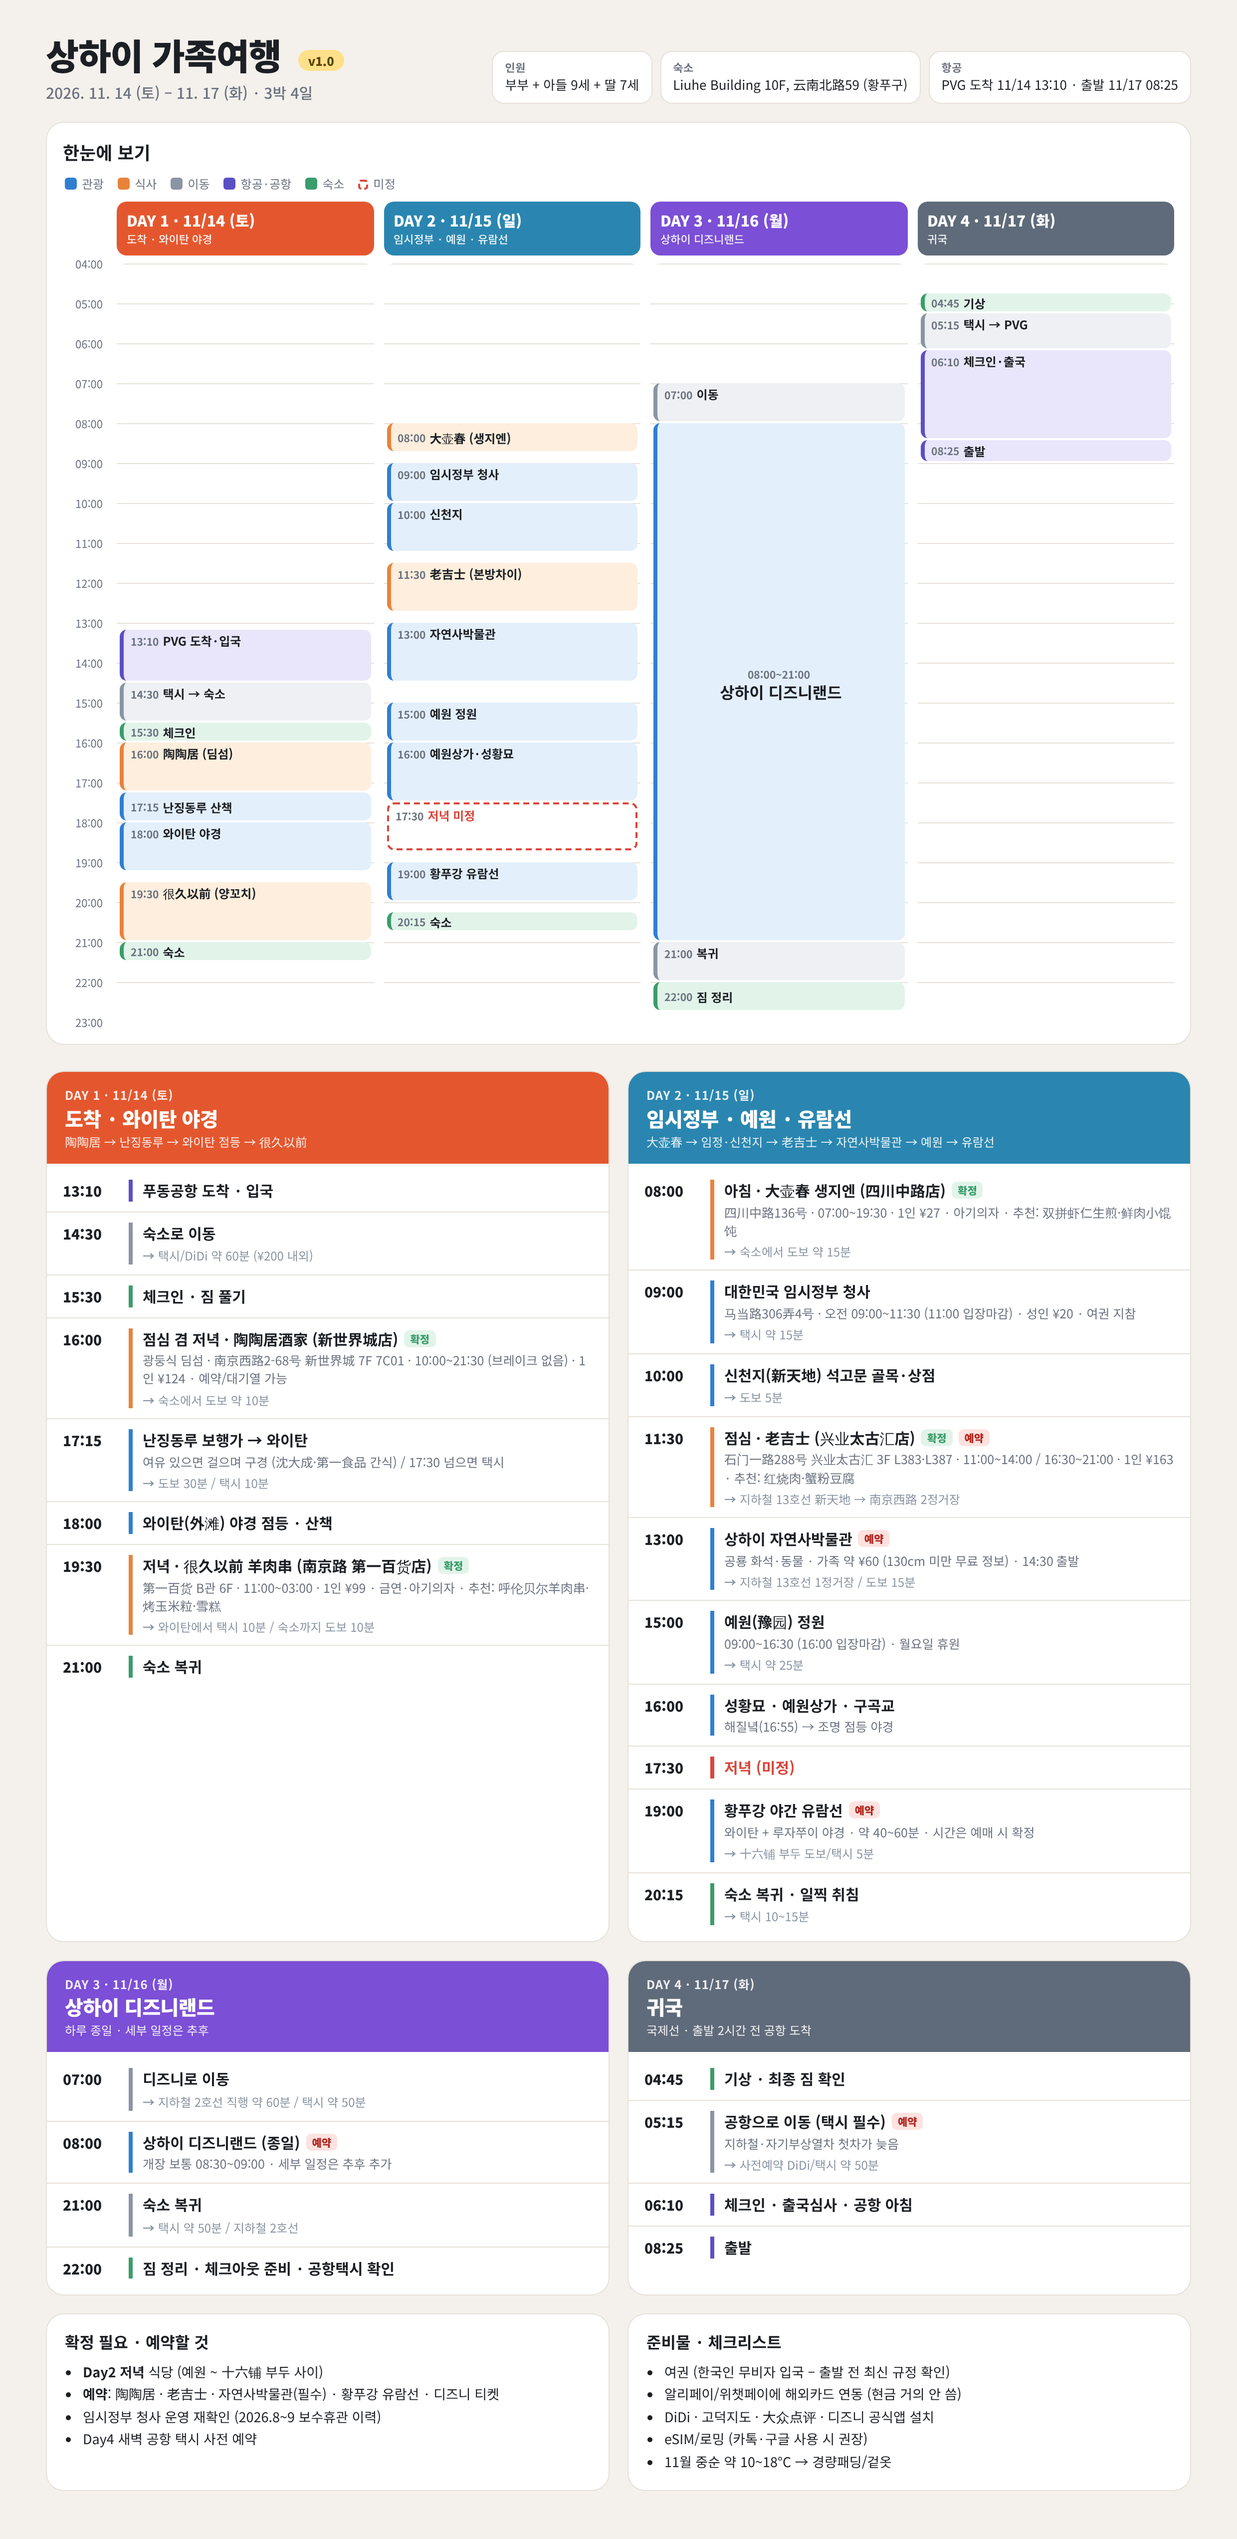
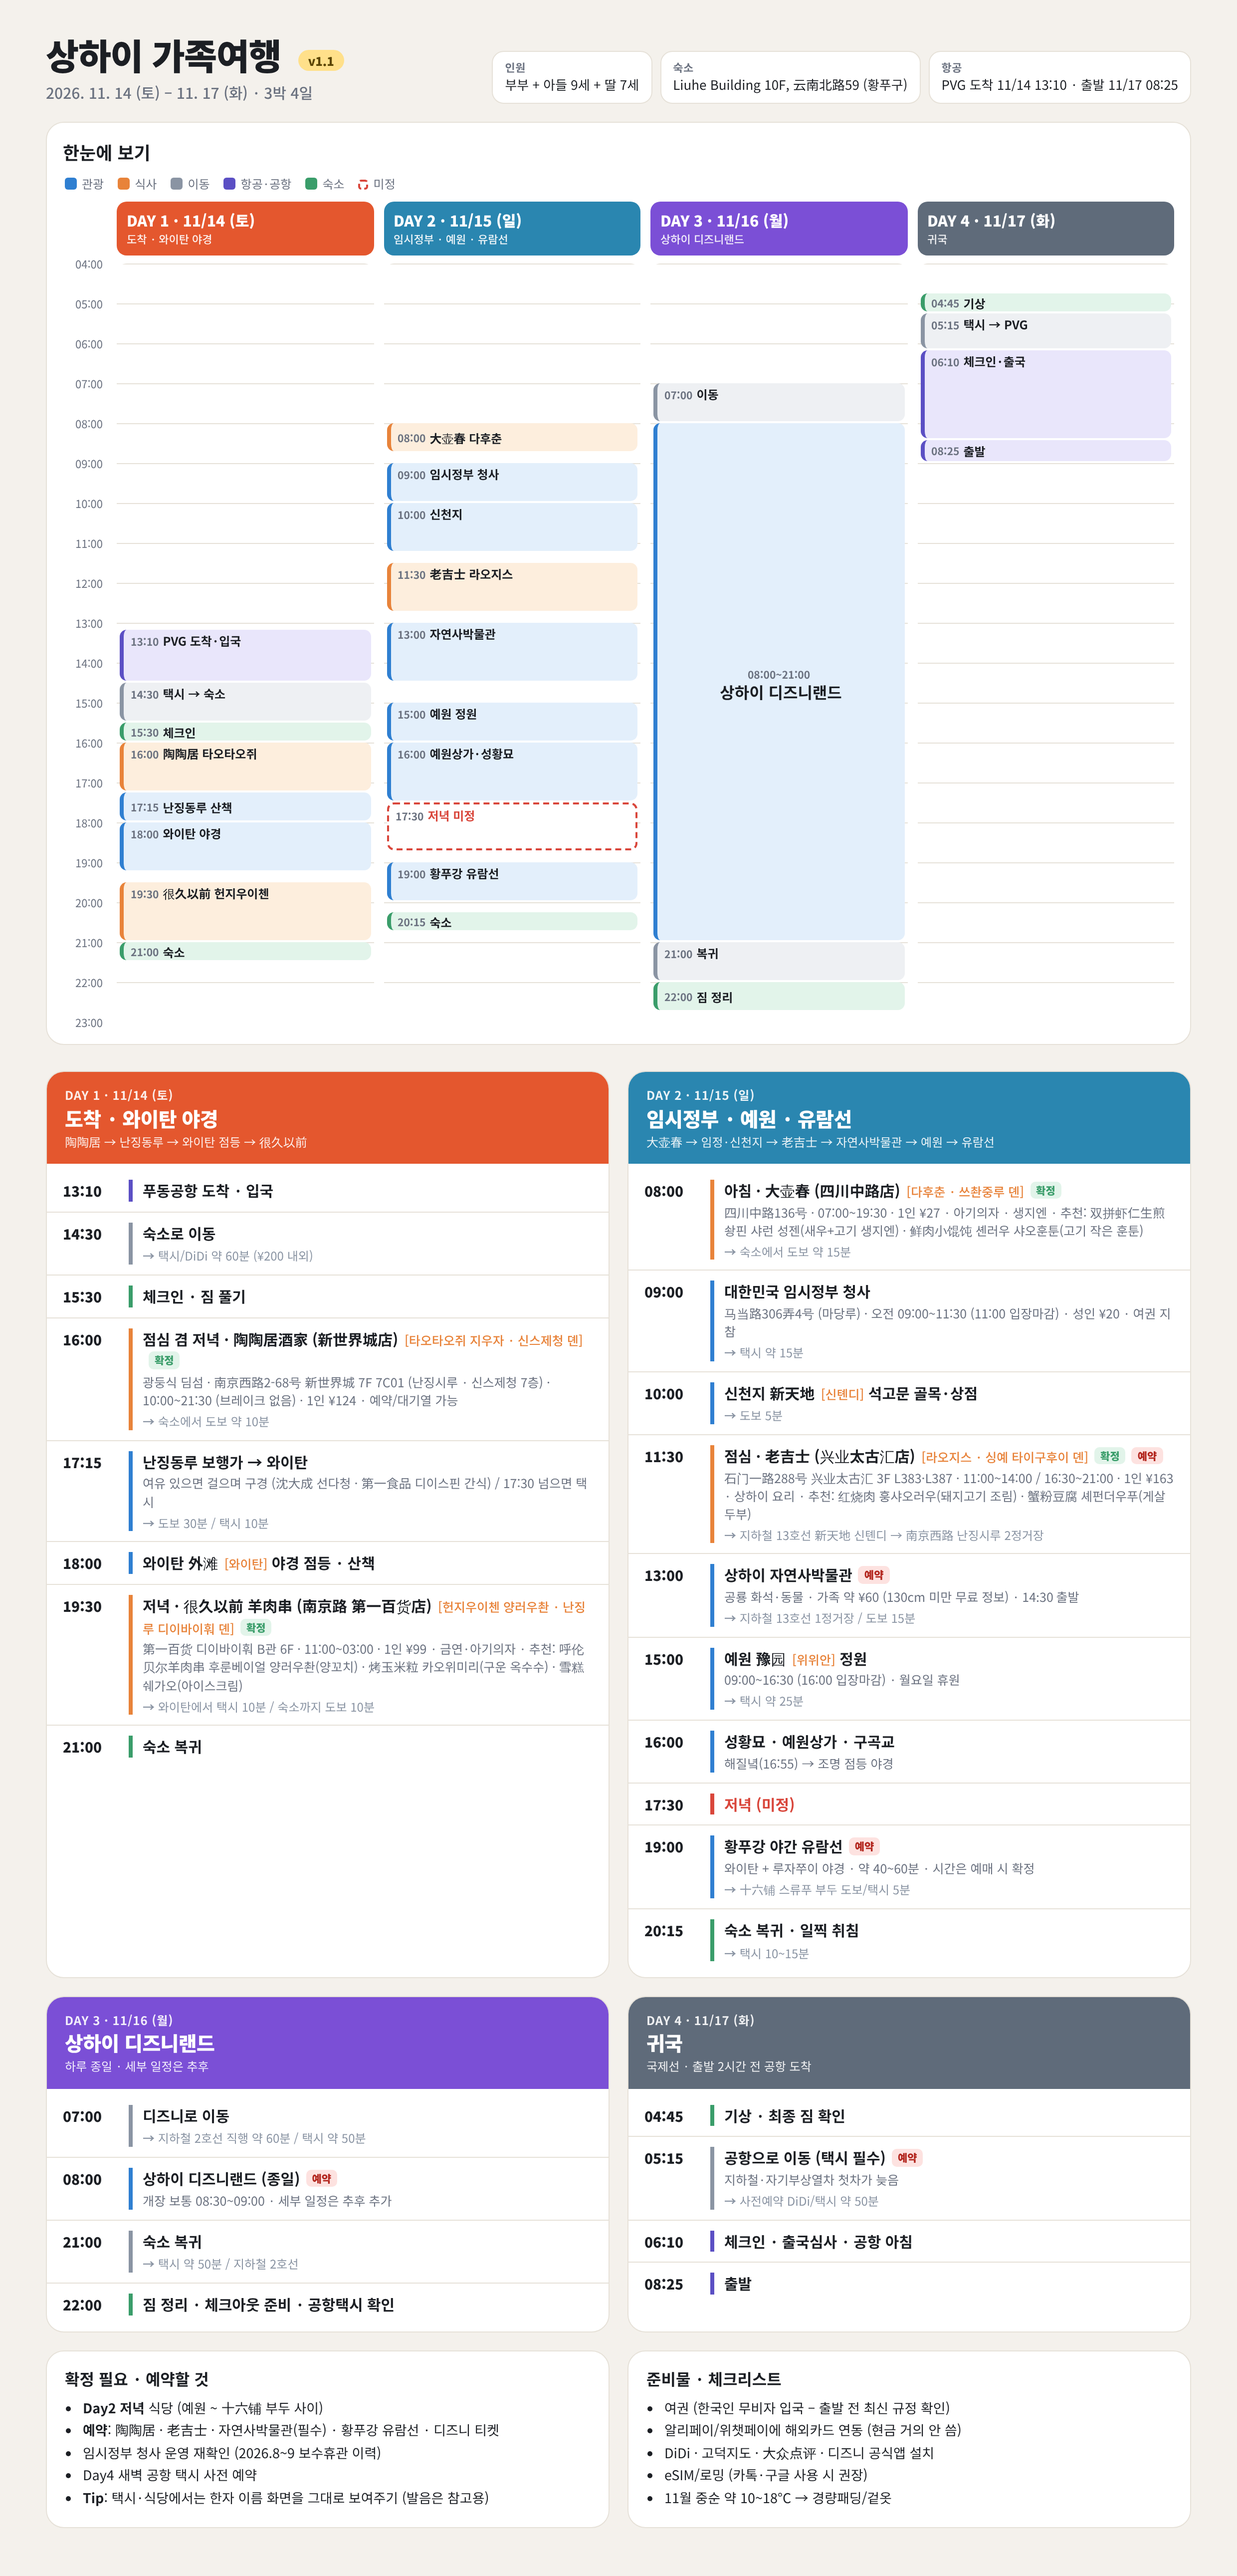
Add Korean pronunciation for Chinese restaurant, menu and place names (v1.1)
Claude-Session: https://claude.ai/code/session_01FtyK4HJW4ZkDiHshS9yHtF

diff --git a/index.html b/index.html
@@ -78,6 +78,7 @@
   .it .body{border-left:4px solid var(--k);padding-left:10px}
   .it .name{font-weight:700;font-size:15px}
   .it .info{font-size:12.5px;color:var(--muted);margin-top:2px}
+  .pr{font-weight:500;font-size:12.5px;color:var(--food);margin-left:2px}
   .it .mv{font-size:12px;color:var(--move);margin-top:3px}
   .it .mv::before{content:"→ ";font-weight:700}
   .it.tbd .name{color:var(--tbd)}
@@ -102,7 +103,7 @@
 <div class="wrap">
   <header>
     <div>
-      <h1>상하이 가족여행 <span class="ver">v1.0</span></h1>
+      <h1>상하이 가족여행 <span class="ver">v1.1</span></h1>
       <div class="dates">2026. 11. 14 (토) – 11. 17 (화) · 3박 4일</div>
     </div>
     <div class="facts">
@@ -135,6 +136,7 @@
         <li><b>예약</b>: 陶陶居 · 老吉士 · 자연사박물관(필수) · 황푸강 유람선 · 디즈니 티켓</li>
         <li>임시정부 청사 운영 재확인 (2026.8~9 보수휴관 이력)</li>
         <li>Day4 새벽 공항 택시 사전 예약</li>
+        <li><b>Tip</b>: 택시·식당에서는 한자 이름 화면을 그대로 보여주기 (발음은 참고용)</li>
       </ul>
     </div>
     <div class="note">
@@ -157,32 +159,32 @@ const DAYS = [
     {s:"13:10",e:"14:30",k:"fly", name:"푸동공항 도착 · 입국", short:"PVG 도착·입국"},
     {s:"14:30",e:"15:30",k:"move",name:"숙소로 이동", short:"택시 → 숙소", mv:"택시/DiDi 약 60분 (¥200 내외)"},
     {s:"15:30",e:"16:00",k:"rest",name:"체크인 · 짐 풀기", short:"체크인"},
-    {s:"16:00",e:"17:15",k:"food",name:"점심 겸 저녁 · 陶陶居酒家 (新世界城店)", short:"陶陶居 (딤섬)", ok:1,
-      info:"광둥식 딤섬 · 南京西路2-68号 新世界城 7F 7C01 · 10:00~21:30 (브레이크 없음) · 1인 ¥124 · 예약/대기열 가능", mv:"숙소에서 도보 약 10분"},
+    {s:"16:00",e:"17:15",k:"food",name:"점심 겸 저녁 · 陶陶居酒家 (新世界城店) <span class='pr'>[타오타오쥐 지우자 · 신스제청 뎬]</span>", short:"陶陶居 타오타오쥐", ok:1,
+      info:"광둥식 딤섬 · 南京西路2-68号 新世界城 7F 7C01 (난징시루 · 신스제청 7층) · 10:00~21:30 (브레이크 없음) · 1인 ¥124 · 예약/대기열 가능", mv:"숙소에서 도보 약 10분"},
     {s:"17:15",e:"18:00",k:"sight",name:"난징동루 보행가 → 와이탄", short:"난징동루 산책",
-      info:"여유 있으면 걸으며 구경 (沈大成·第一食品 간식) / 17:30 넘으면 택시", mv:"도보 30분 / 택시 10분"},
-    {s:"18:00",e:"19:15",k:"sight",name:"와이탄(外滩) 야경 점등 · 산책", short:"와이탄 야경"},
-    {s:"19:30",e:"21:00",k:"food",name:"저녁 · 很久以前 羊肉串 (南京路 第一百货店)", short:"很久以前 (양꼬치)", ok:1,
-      info:"第一百货 B관 6F · 11:00~03:00 · 1인 ¥99 · 금연·아기의자 · 추천: 呼伦贝尔羊肉串·烤玉米粒·雪糕", mv:"와이탄에서 택시 10분 / 숙소까지 도보 10분"},
+      info:"여유 있으면 걸으며 구경 (沈大成 선다청 · 第一食品 디이스핀 간식) / 17:30 넘으면 택시", mv:"도보 30분 / 택시 10분"},
+    {s:"18:00",e:"19:15",k:"sight",name:"와이탄 外滩 <span class='pr'>[와이탄]</span> 야경 점등 · 산책", short:"와이탄 야경"},
+    {s:"19:30",e:"21:00",k:"food",name:"저녁 · 很久以前 羊肉串 (南京路 第一百货店) <span class='pr'>[헌지우이첸 양러우촨 · 난징루 디이바이훠 뎬]</span>", short:"很久以前 헌지우이첸", ok:1,
+      info:"第一百货 디이바이훠 B관 6F · 11:00~03:00 · 1인 ¥99 · 금연·아기의자 · 추천: 呼伦贝尔羊肉串 후룬베이얼 양러우촨(양꼬치) · 烤玉米粒 카오위미리(구운 옥수수) · 雪糕 쉐가오(아이스크림)", mv:"와이탄에서 택시 10분 / 숙소까지 도보 10분"},
     {s:"21:00",e:"21:30",k:"rest",name:"숙소 복귀", short:"숙소"},
   ]},
   { n:"DAY 2", date:"11/15 (일)", c:"var(--d2)", title:"임시정부 · 예원 · 유람선", sub:"大壶春 → 임정·신천지 → 老吉士 → 자연사박물관 → 예원 → 유람선", items:[
-    {s:"08:00",e:"08:45",k:"food",name:"아침 · 大壶春 생지엔 (四川中路店)", short:"大壶春 (생지엔)", ok:1,
-      info:"四川中路136号 · 07:00~19:30 · 1인 ¥27 · 아기의자 · 추천: 双拼虾仁生煎·鲜肉小馄饨", mv:"숙소에서 도보 약 15분"},
+    {s:"08:00",e:"08:45",k:"food",name:"아침 · 大壶春 (四川中路店) <span class='pr'>[다후춘 · 쓰촨중루 뎬]</span>", short:"大壶春 다후춘", ok:1,
+      info:"四川中路136号 · 07:00~19:30 · 1인 ¥27 · 아기의자 · 생지엔 · 추천: 双拼虾仁生煎 솽핀 샤런 성젠(새우+고기 생지엔) · 鲜肉小馄饨 셴러우 샤오훈툰(고기 작은 훈툰)", mv:"숙소에서 도보 약 15분"},
     {s:"09:00",e:"10:00",k:"sight",name:"대한민국 임시정부 청사", short:"임시정부 청사",
-      info:"马当路306弄4号 · 오전 09:00~11:30 (11:00 입장마감) · 성인 ¥20 · 여권 지참", mv:"택시 약 15분"},
-    {s:"10:00",e:"11:15",k:"sight",name:"신천지(新天地) 석고문 골목·상점", short:"신천지", mv:"도보 5분"},
-    {s:"11:30",e:"12:45",k:"food",name:"점심 · 老吉士 (兴业太古汇店)", short:"老吉士 (본방차이)", ok:1, rsv:1,
-      info:"石门一路288号 兴业太古汇 3F L383·L387 · 11:00~14:00 / 16:30~21:00 · 1인 ¥163 · 추천: 红烧肉·蟹粉豆腐", mv:"지하철 13호선 新天地 → 南京西路 2정거장"},
+      info:"马当路306弄4号 (마당루) · 오전 09:00~11:30 (11:00 입장마감) · 성인 ¥20 · 여권 지참", mv:"택시 약 15분"},
+    {s:"10:00",e:"11:15",k:"sight",name:"신천지 新天地 <span class='pr'>[신톈디]</span> 석고문 골목·상점", short:"신천지", mv:"도보 5분"},
+    {s:"11:30",e:"12:45",k:"food",name:"점심 · 老吉士 (兴业太古汇店) <span class='pr'>[라오지스 · 싱예 타이구후이 뎬]</span>", short:"老吉士 라오지스", ok:1, rsv:1,
+      info:"石门一路288号 兴业太古汇 3F L383·L387 · 11:00~14:00 / 16:30~21:00 · 1인 ¥163 · 상하이 요리 · 추천: 红烧肉 훙샤오러우(돼지고기 조림) · 蟹粉豆腐 셰펀더우푸(게살 두부)", mv:"지하철 13호선 新天地 신톈디 → 南京西路 난징시루 2정거장"},
     {s:"13:00",e:"14:30",k:"sight",name:"상하이 자연사박물관", short:"자연사박물관", rsv:1,
       info:"공룡 화석·동물 · 가족 약 ¥60 (130cm 미만 무료 정보) · 14:30 출발", mv:"지하철 13호선 1정거장 / 도보 15분"},
-    {s:"15:00",e:"16:00",k:"sight",name:"예원(豫园) 정원", short:"예원 정원",
+    {s:"15:00",e:"16:00",k:"sight",name:"예원 豫园 <span class='pr'>[위위안]</span> 정원", short:"예원 정원",
       info:"09:00~16:30 (16:00 입장마감) · 월요일 휴원", mv:"택시 약 25분"},
     {s:"16:00",e:"17:30",k:"sight",name:"성황묘 · 예원상가 · 구곡교", short:"예원상가·성황묘",
       info:"해질녘(16:55) → 조명 점등 야경"},
     {s:"17:30",e:"18:45",k:"tbd", name:"저녁 (미정)", short:"저녁 미정"},
     {s:"19:00",e:"20:00",k:"sight",name:"황푸강 야간 유람선", short:"황푸강 유람선", rsv:1,
-      info:"와이탄 + 루자쭈이 야경 · 약 40~60분 · 시간은 예매 시 확정", mv:"十六铺 부두 도보/택시 5분"},
+      info:"와이탄 + 루자쭈이 야경 · 약 40~60분 · 시간은 예매 시 확정", mv:"十六铺 스류푸 부두 도보/택시 5분"},
     {s:"20:15",e:"20:45",k:"rest",name:"숙소 복귀 · 일찍 취침", short:"숙소", mv:"택시 10~15분"},
   ]},
   { n:"DAY 3", date:"11/16 (월)", c:"var(--d3)", title:"상하이 디즈니랜드", sub:"하루 종일 · 세부 일정은 추후", items:[

diff --git a/README.md b/README.md
@@ -1,4 +1,4 @@
-# 상하이 가족여행 (2026.11.14 ~ 11.17, 3박 4일) — v1.0
+# 상하이 가족여행 (2026.11.14 ~ 11.17, 3박 4일) — v1.1
 
 - 인원: 부부 + 아들 9세 + 딸 7세
 - 숙소: Liuhe Building 10F, 59 Yunnan North Rd, 황푸구
